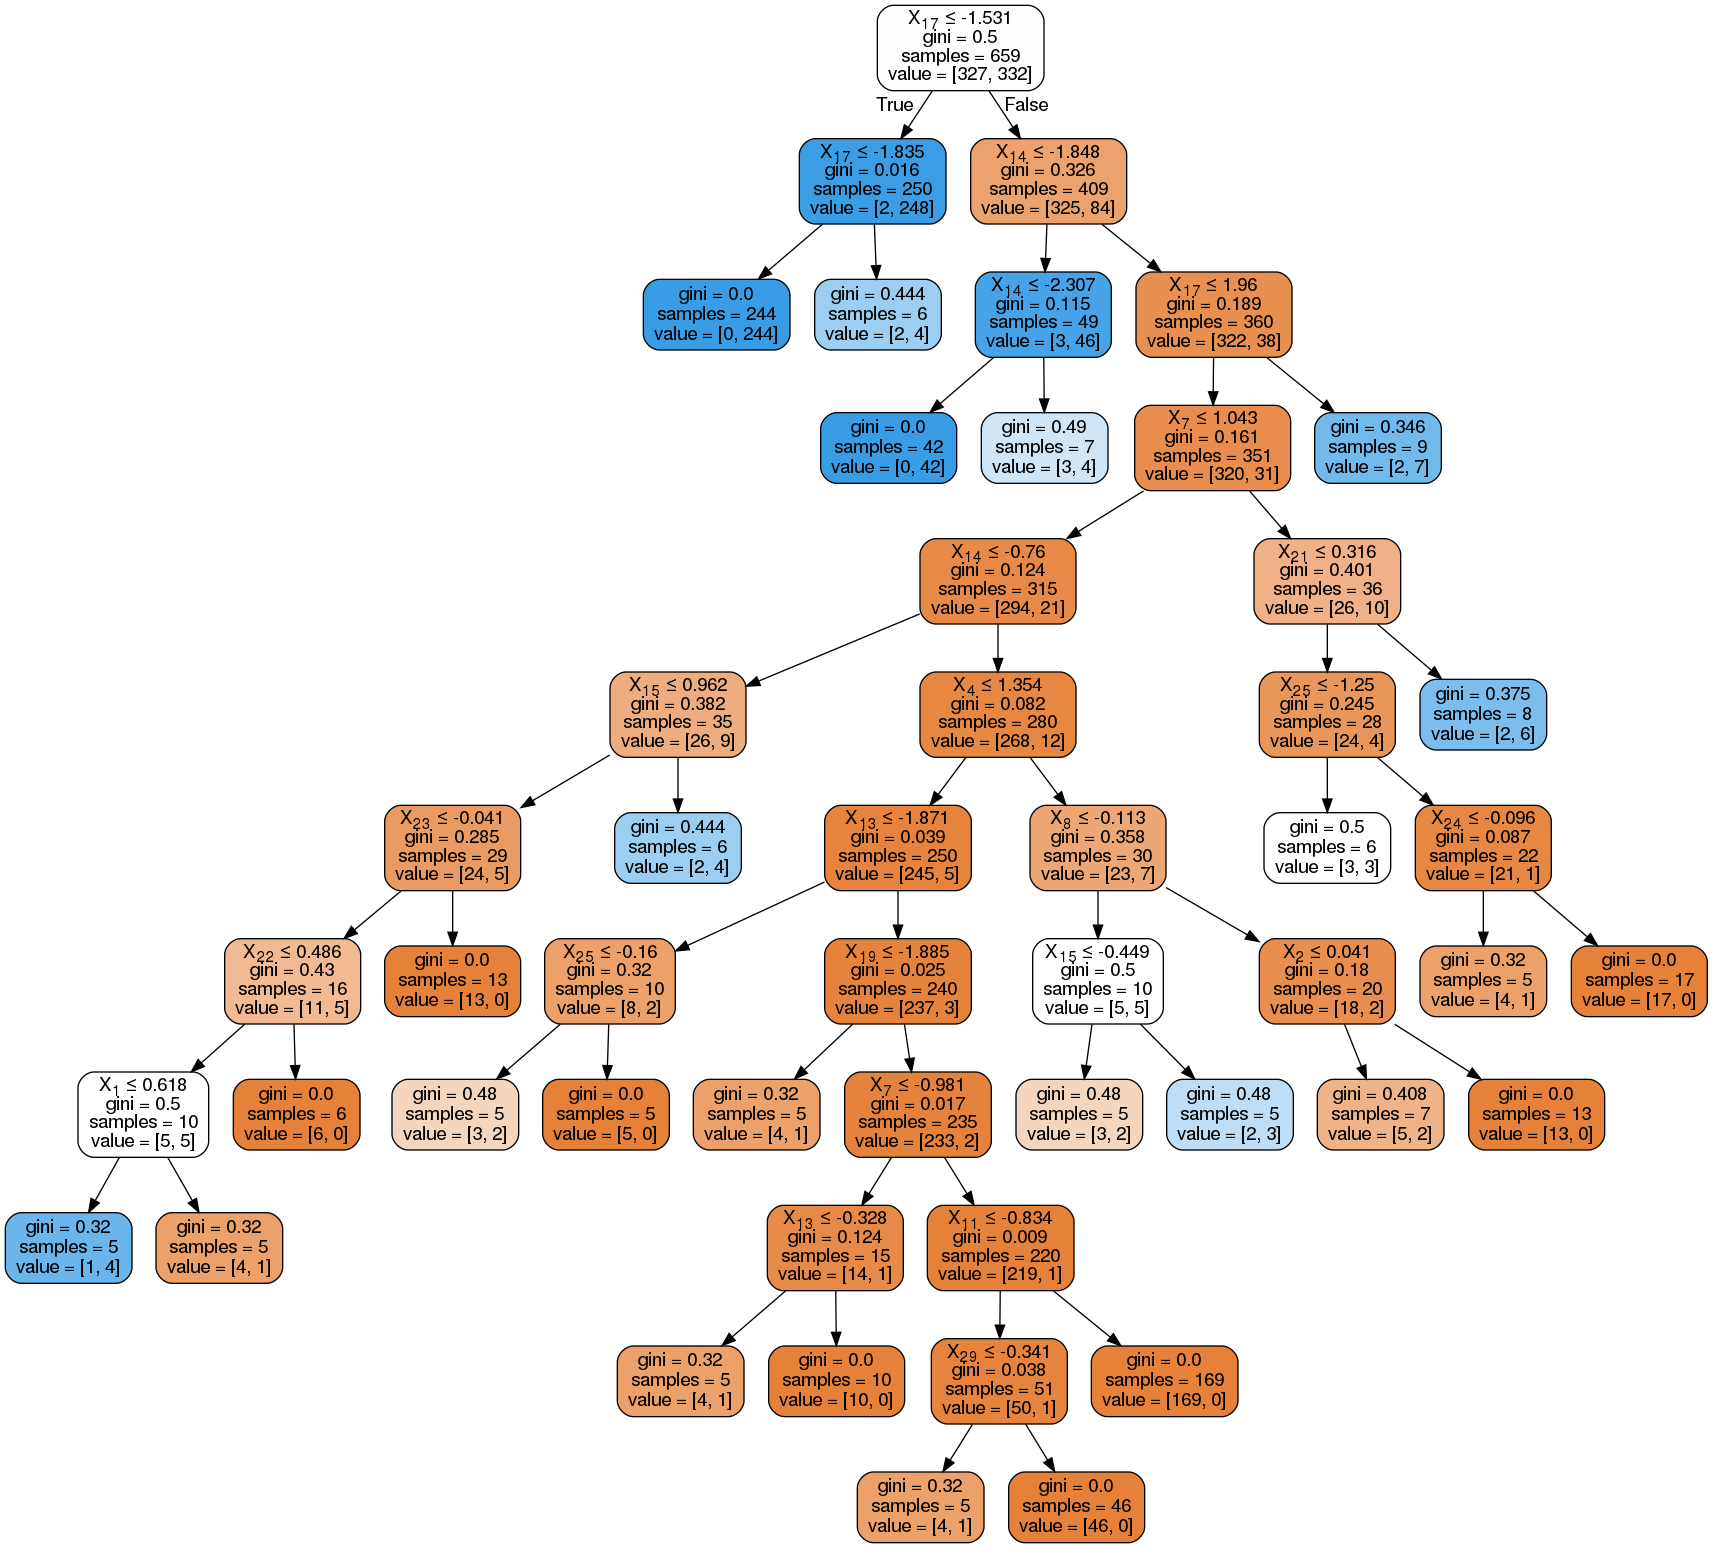
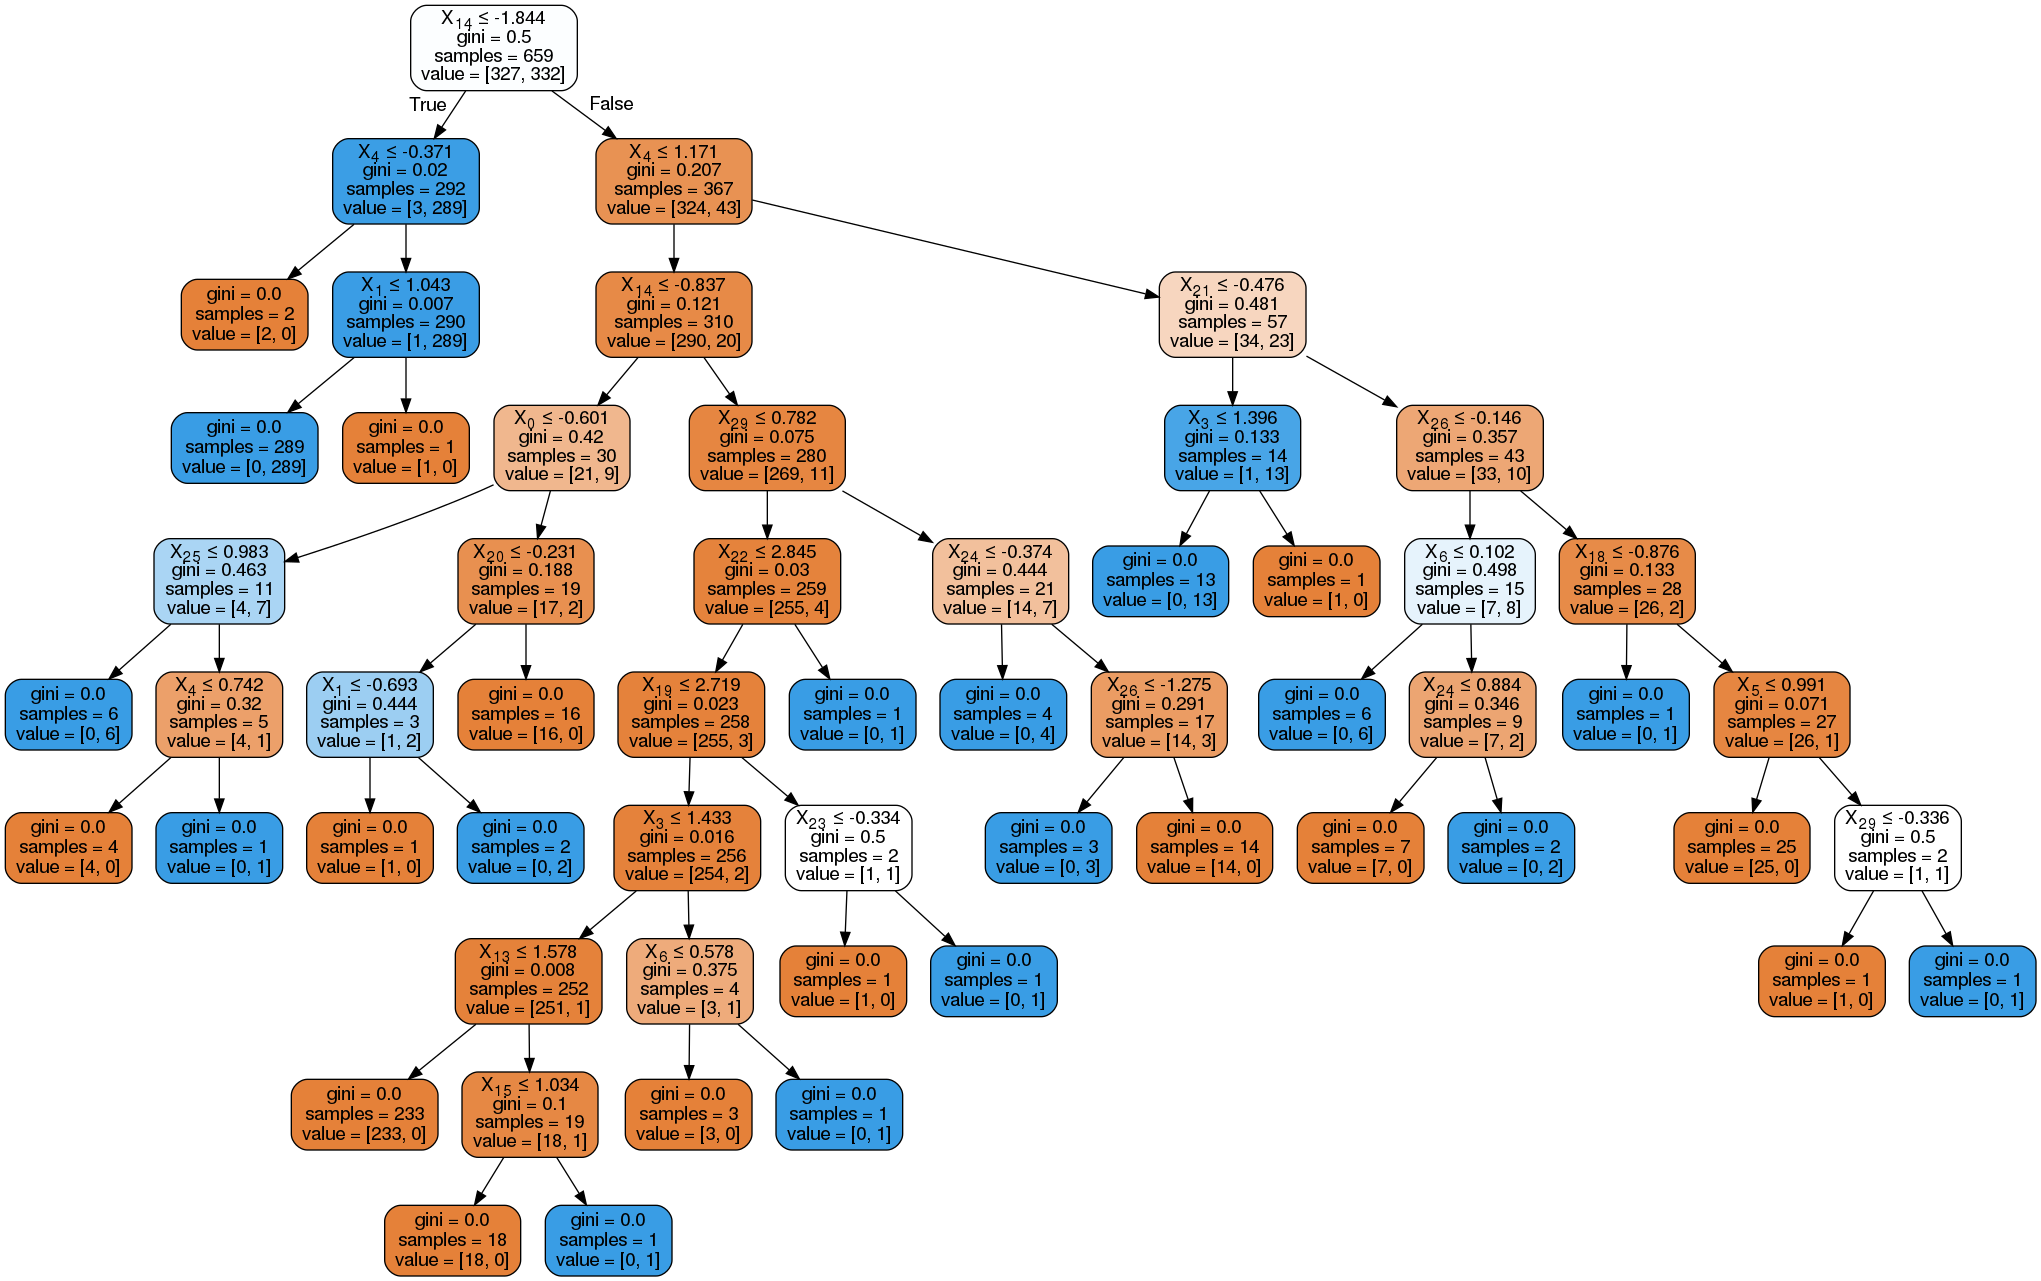
Tested new parameters

diff --git a/src/neural_network.py b/src/neural_network.py
@@ -79,12 +79,14 @@ def grid_search_nn():
         "alpha": [0.1, 0.01, 0.001],
         "max_iter": [500,1000]
     }
-
-    # Best params for Recall Score {'activation': 'logistic', 'alpha': 0.01, 'hidden_layer_sizes': (30, 30, 30, 30), 'max_iter': 1000, 'solver': 'adam'}    
-    # Accuracy Score:  0.9477
-    # Precision Score: 0.9422. What percentage of the predicted frauds were frauds?
-    # Recall Score:    0.9588. What percentage of the actual frauds were predicted?
-
+    
+    # Best params for Recall Score {'activation': 'logistic', 'alpha': 0.1, 'hidden_layer_sizes': (30, 30, 30, 30), 'max_iter': 500, 'solver': 'lbfgs'}
+    # Accuracy Test Score:   0.9231
+    # Precision Test Score:  0.9062. What percentage of the predicted frauds were frauds?
+    # Recall Test Score:     0.9355. What percentage of the actual frauds were predicted?
+    # Recall Train Score     1.0000
+    # Recall CV Train Score: 1.0000
+    # Recall CV Test Score:  0.9555
 
     scorers = {
         "precision_score": make_scorer(precision_score),
@@ -92,7 +94,6 @@ def grid_search_nn():
         "accuracy_score": make_scorer(accuracy_score)
     }
     grid_search = GridSearchCV(clf, param_grid, cv=5, scoring=scorers, refit="recall_score", return_train_score=True, n_jobs=-1)
-    # grid_search = GridSearchCV(clf, param_grid, cv=5, scoring="recall", n_jobs=-1)
     
     grid_search.fit(X_train, y_train)
     prediction = grid_search.predict(X_test)
@@ -107,10 +108,10 @@ def neuralnet():
                                 learning_rate = "adaptive",
                                 learning_rate_init = 0.001,
                                 activation= "logistic",
-                                alpha = 0.01,
+                                alpha = 0.1,
                                 hidden_layer_sizes = (30, 30, 30, 30),
-                                max_iter = 1000,
-                                solver = "adam",
+                                max_iter = 500,
+                                solver = "lbfgs",
                                 tol = 1e-4,
                                 verbose = False
                                 )

diff --git a/src/decision_tree.py b/src/decision_tree.py
@@ -70,7 +70,13 @@ def grid_search_decisiontree():
     }
 
 
-    # Best params for Recall Score {'criterion': 'entropy', 'max_depth': 20, 'max_features': 5, 'min_samples_leaf': 1, 'min_samples_split': 2}
+    # Best params for Recall Score {'criterion': 'gini', 'max_depth': 20, 'max_features': 30, 'min_samples_leaf': 1, 'min_samples_split': 2}
+    # Accuracy Test Score:   0.9108
+    # Precision Test Score:  0.8970. What percentage of the predicted frauds were frauds?
+    # Recall Test Score:     0.9250. What percentage of the actual frauds were predicted?
+    # Recall Train Score     1.0000
+    # Recall CV Train Score: 1.0000
+    # Recall CV Test Score:  0.9367
 
     scorers = {
         "precision_score": make_scorer(precision_score),
@@ -78,7 +84,6 @@ def grid_search_decisiontree():
         "accuracy_score": make_scorer(accuracy_score)
     }
     grid_search = GridSearchCV(clf, param_grid, cv=5, scoring=scorers, refit="recall_score", return_train_score=True, n_jobs=-1)
-    # grid_search = GridSearchCV(clf, param_grid, cv=5, scoring="recall", n_jobs=-1)
     
     grid_search.fit(X_train, y_train)
     prediction = grid_search.predict(X_test)
@@ -96,9 +101,9 @@ def decisiontree():
     X_train, X_test, y_train, y_test = retrieve_data( undersampling=True, ratio=1, random_state=2 )
 
     clf = tree.DecisionTreeClassifier(
-                                    criterion = "entropy",
+                                    criterion = "gini",
                                     max_depth = 20,
-                                    max_features = 5,
+                                    max_features = 30,
                                     min_samples_leaf = 1,
                                     min_samples_split = 2
                                     )

diff --git a/src/random_forest.py b/src/random_forest.py
@@ -38,15 +38,13 @@ def grid_search_randomforest():
         "accuracy_score": make_scorer(accuracy_score)
     }
     grid_search = GridSearchCV(clf, param_grid, cv=5, scoring=scorers, refit="recall_score", return_train_score=True, n_jobs=-1)
-    # grid_search = GridSearchCV(clf, param_grid, cv=5, scoring="recall", n_jobs=-1)
 
     grid_search.fit(X_train, y_train)
     prediction = grid_search.predict(X_test)
 
-
     scores(prediction, y_test, X_train, y_train, grid_search)
 
-def  randomforest():
+def randomforest():
     X_train, X_test, y_train, y_test = retrieve_data( undersampling=True, ratio=1, random_state=None)
 
     ### Random Forest Classifier
@@ -59,7 +57,6 @@ def  randomforest():
 
     clf.fit(X_train, y_train)
     prediction = clf.predict(X_test)
-
 
     scores(prediction, y_test, X_train, y_train)
     

diff --git a/src/logistic_regression.py b/src/logistic_regression.py
@@ -32,7 +32,6 @@ def grid_search_logreg():
         "accuracy_score": make_scorer(accuracy_score)
     }
     grid_search = GridSearchCV(clf, param_grid, cv=5, scoring=scorers, refit="recall_score", return_train_score=True, n_jobs=-1)
-    # grid_search = GridSearchCV(clf, param_grid, cv=5, scoring="recall", n_jobs=-1)
 
     grid_search.fit(X_train, y_train)
     prediction = grid_search.predict(X_test)
@@ -47,7 +46,6 @@ def logreg():
     X = np.concatenate((X_train, X_test), axis=0)
     y = np.append(y_train, y_test)
 
-
     ### Logistic Regression
     clf = LogisticRegression(random_state=4, solver="liblinear", C=0.01, penalty="l1")
 
@@ -57,5 +55,5 @@ def logreg():
     scores(prediction, y_test, X_train, y_train)
 
 
-# grid_search_logreg()
-logreg()
+grid_search_logreg()
+# logreg()

diff --git a/src/scoring.py b/src/scoring.py
@@ -28,7 +28,6 @@ def scores(prediction, y_test, X_train, y_train, grid_search=None):
     ax= plt.subplot()
     cm = confusion_matrix(y_test, prediction)
     sb.heatmap(cm, annot=True, ax = ax, fmt="g", cmap="Greens")
-    # labels, title and ticks
     ax.set_xlabel("Predicted")
     ax.set_ylabel("True")
     ax.set_title("Confusion Matrix")
